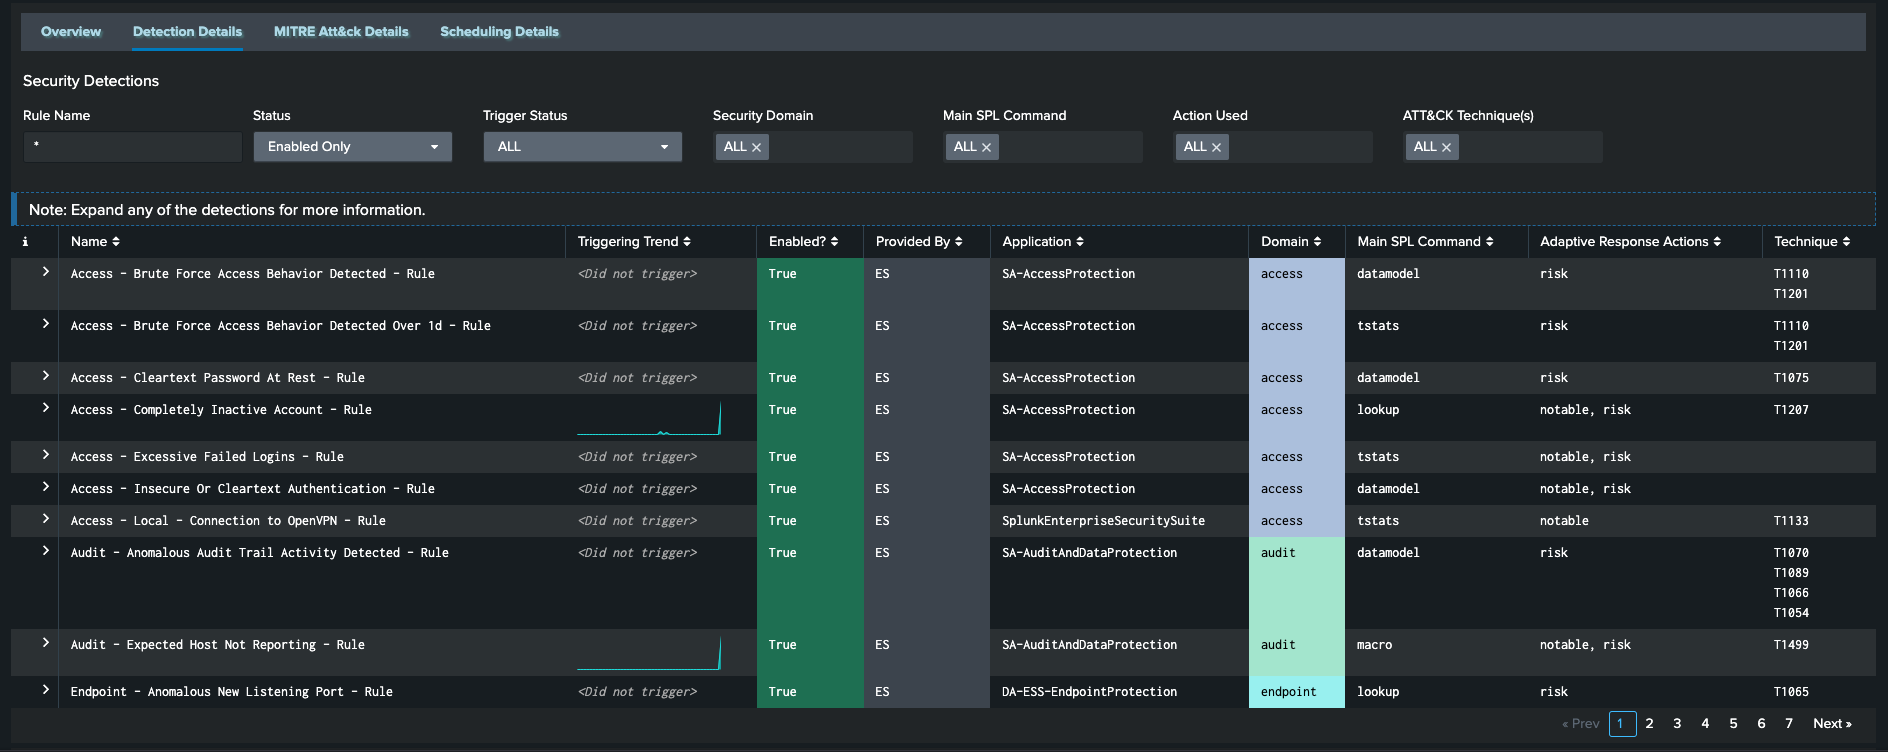
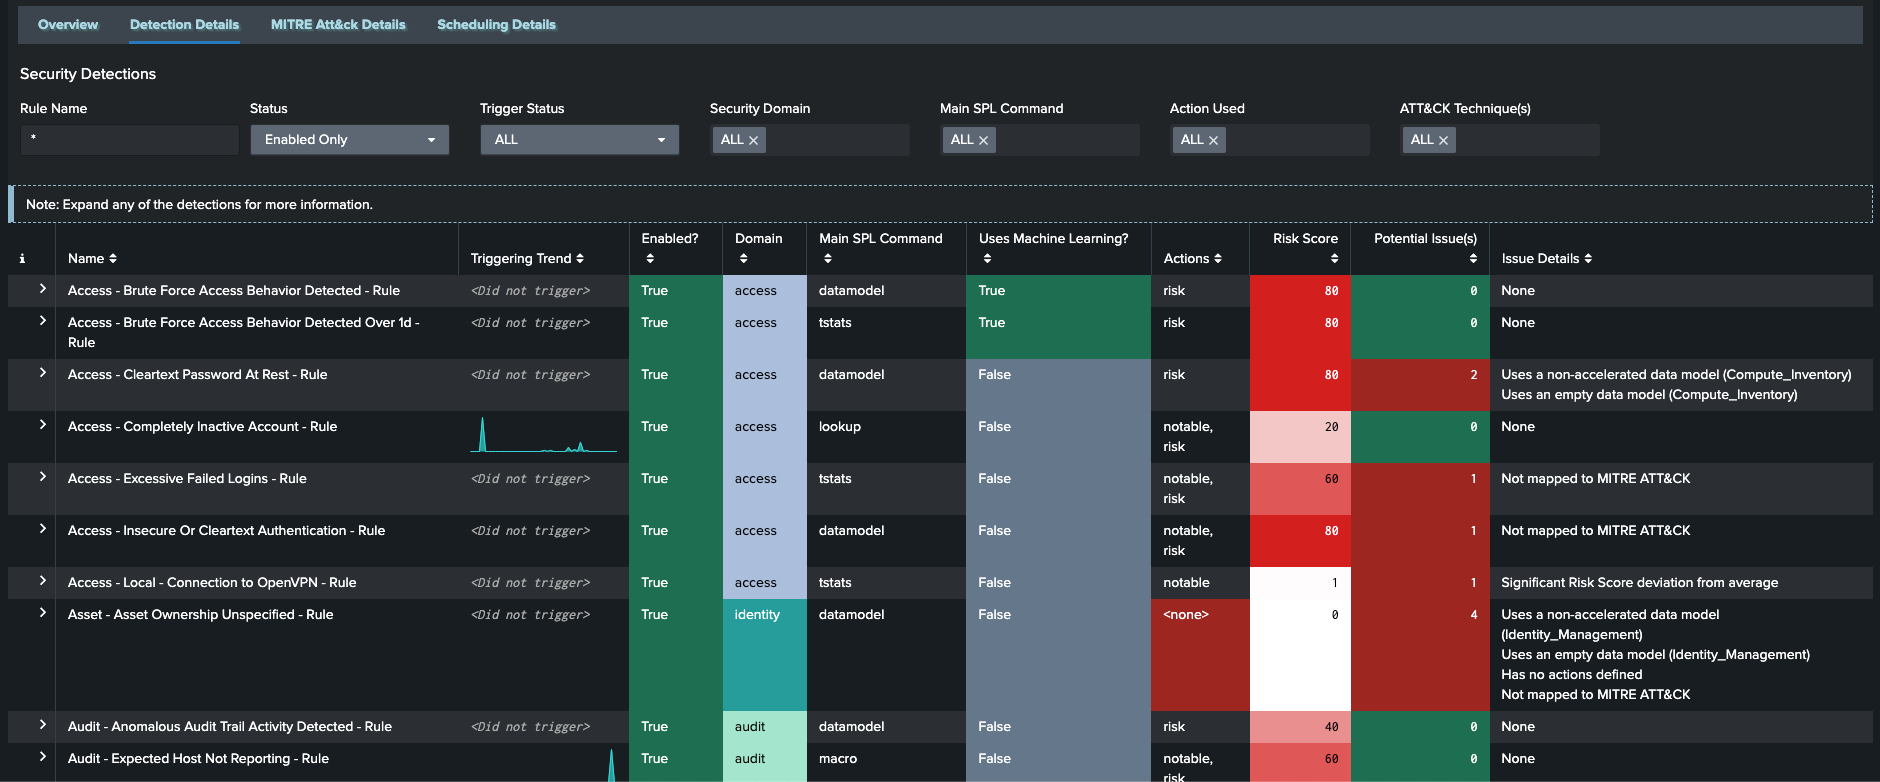
Update documentation for 1.0.1

diff --git a/README.md b/README.md
@@ -8,8 +8,31 @@
 
 |                       |                                                         |
 |-----------------------|---------------------------------------------------------|
-| Version               | 1.0.0                                                   |
+| Version               | 1.0.1                                                   |
 | Visible in Splunk Web | No.                                                     |
+
+### Release Notes
+
+**v1.0.0** - Initial release
+
+**v1.0.1** - Released 2023-03-24
+
+_Overview_
+
+- Added the ability to add checks based on unmanaged annotations, for example to map Atomic Red Team Test GUID(s) to detections
+
+_Detection Details_
+
+- Now includes a column to identify if a detection uses machine-learning features
+- Add Risk Score to the table, removed MITRE TEchnique (can still filter on it)
+- Added 10 different checks for potential issues
+- Added Confidence and Impact details to the expanded detection section
+- Minor cosmetic improvements
+
+_Scheduling Details_
+
+- Added additional checks for potential issues
+
 
 ## Description
 
